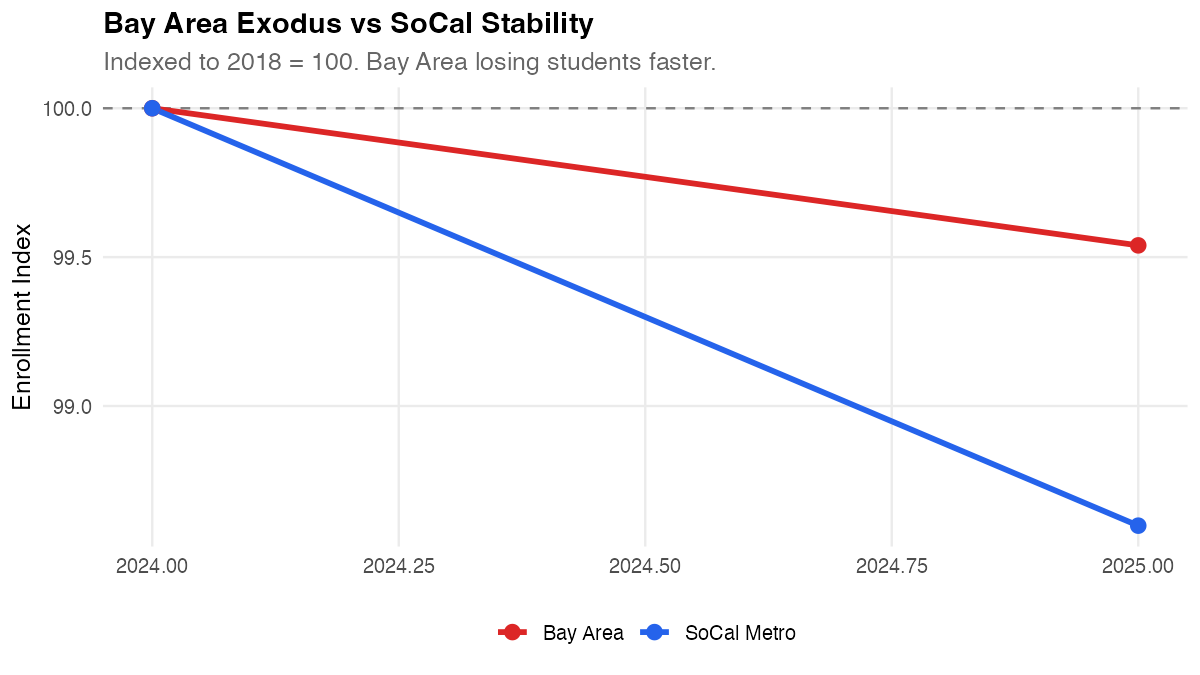
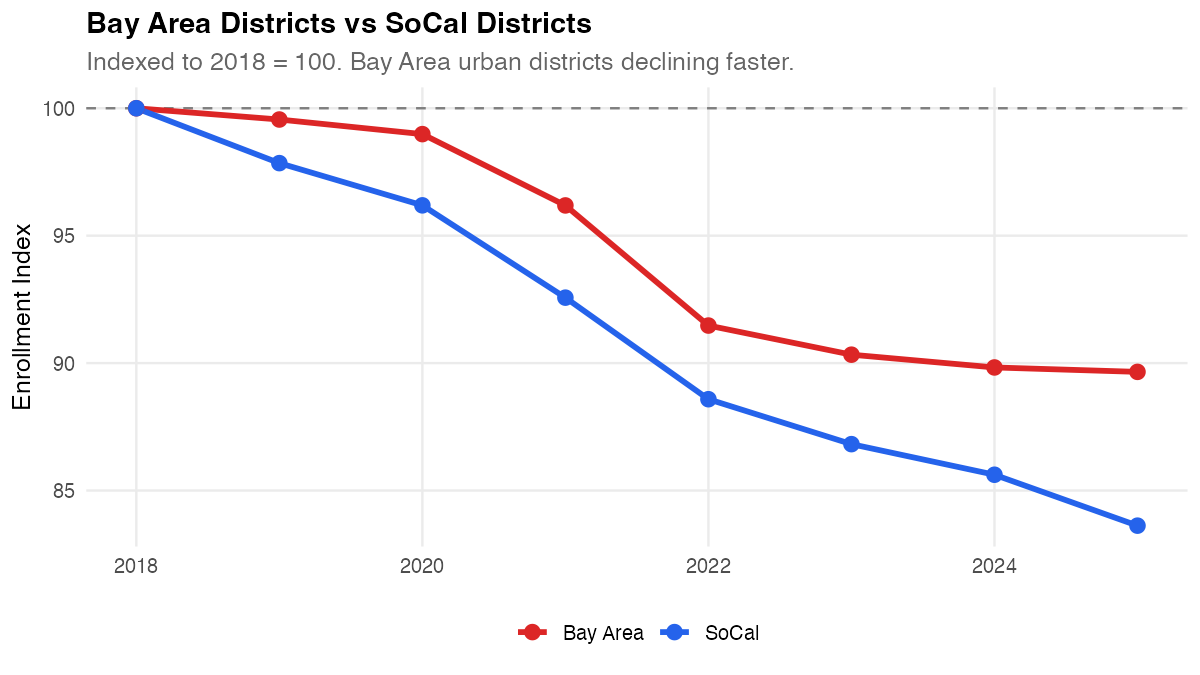
Refocus README from counties to districts
Changed sections 5, 6, and 10 to highlight district-level data instead
of county aggregations. Districts are the natural unit for school data
analysis (LAUSD, SF Unified, etc.) rather than arbitrary county boundaries.

- Section 5: Top counties → Top districts (LAUSD is 2nd largest in US)
- Section 6: Bay Area vs SoCal counties → Bay Area vs SoCal districts
- Section 10: Race by region (counties) → Race by district

diff --git a/README.md b/README.md
@@ -86,9 +86,9 @@ enr %>%
 
 ---
 
-### 5. LA County has more students than most states
+### 5. LAUSD is America's second-largest district
 
-California's five largest counties alone serve nearly 3 million students.
+California has 5 of the nation's 20 largest school districts.
 
 ```r
 enr <- fetch_enr_multi(2018:2025)
@@ -96,26 +96,27 @@ enr <- fetch_enr_multi(2018:2025)
 # Filter for charter_status == "ALL" to avoid double-counting
 # (modern Census Day files have separate rows for charter/non-charter)
 enr %>%
-  filter(is_county, grade_level == "TOTAL", reporting_category == "TA",
+  filter(is_district, grade_level == "TOTAL", reporting_category == "TA",
          charter_status %in% c("ALL", "All") | is.na(charter_status)) %>%
-  group_by(county_name) %>%
-  filter(max(n_students) > 200000) %>%
-  select(end_year, county_name, n_students)
+  group_by(district_name) %>%
+  filter(max(n_students) > 50000) %>%
+  select(end_year, district_name, n_students)
 ```
 
-![Top counties](man/figures/top-counties.png)
+![Top districts](man/figures/top-districts.png)
 
 ---
 
-### 6. The Bay Area exodus
+### 6. Bay Area districts are shrinking fastest
 
-Bay Area counties are losing students faster than Southern California.
+Urban districts in the Bay Area are losing students faster than their SoCal counterparts.
 
 ```r
 enr %>%
-  filter(is_county, grade_level == "TOTAL", reporting_category == "TA",
-         county_name %in% c("San Francisco", "Los Angeles", "Santa Clara")) %>%
-  group_by(county_name) %>%
+  filter(is_district, grade_level == "TOTAL", reporting_category == "TA",
+         district_name %in% c("San Francisco Unified", "Los Angeles Unified",
+                              "Oakland Unified", "San Diego Unified")) %>%
+  group_by(district_name) %>%
   mutate(index = n_students / first(n_students) * 100)
 ```
 
@@ -173,21 +174,22 @@ enr %>%
 
 ---
 
-### 10. California's regional diversity
+### 10. California's district diversity
 
-Demographics vary dramatically by region: majority Hispanic in LA and Central Valley, highly diverse in the Bay Area.
+Demographics vary dramatically across major districts: majority Hispanic in LA and Fresno, highly diverse in SF and San Diego.
 
 ```r
 enr_2025 %>%
-  filter(is_county, grade_level == "TOTAL", grepl("^RE_", reporting_category)) %>%
-  filter(county_name %in% c("San Francisco", "Los Angeles", "Fresno", "San Diego")) %>%
-  group_by(county_name, subgroup) %>%
+  filter(is_district, grade_level == "TOTAL", grepl("^RE_", reporting_category)) %>%
+  filter(district_name %in% c("San Francisco Unified", "Los Angeles Unified",
+                               "Fresno Unified", "San Diego Unified")) %>%
+  group_by(district_name, subgroup) %>%
   summarize(n = sum(n_students)) %>%
-  group_by(county_name) %>%
+  group_by(district_name) %>%
   mutate(pct = n / sum(n) * 100)
 ```
 
-![Race by region](man/figures/race-by-region.png)
+![Race by district](man/figures/race-by-district.png)
 
 ---
 
@@ -222,10 +224,10 @@ enr_2025 %>%
   filter(is_district, subgroup == "total", grade_level == "TOTAL") %>%
   arrange(desc(n_students))
 
-# Demographics by county
+# Demographics by district
 enr_2025 %>%
-  filter(is_county, grade_level == "TOTAL", grepl("^RE_", reporting_category)) %>%
-  group_by(county_name, subgroup) %>%
+  filter(is_district, grade_level == "TOTAL", grepl("^RE_", reporting_category)) %>%
+  group_by(district_name, subgroup) %>%
   summarize(n = sum(n_students))
 ```
 
